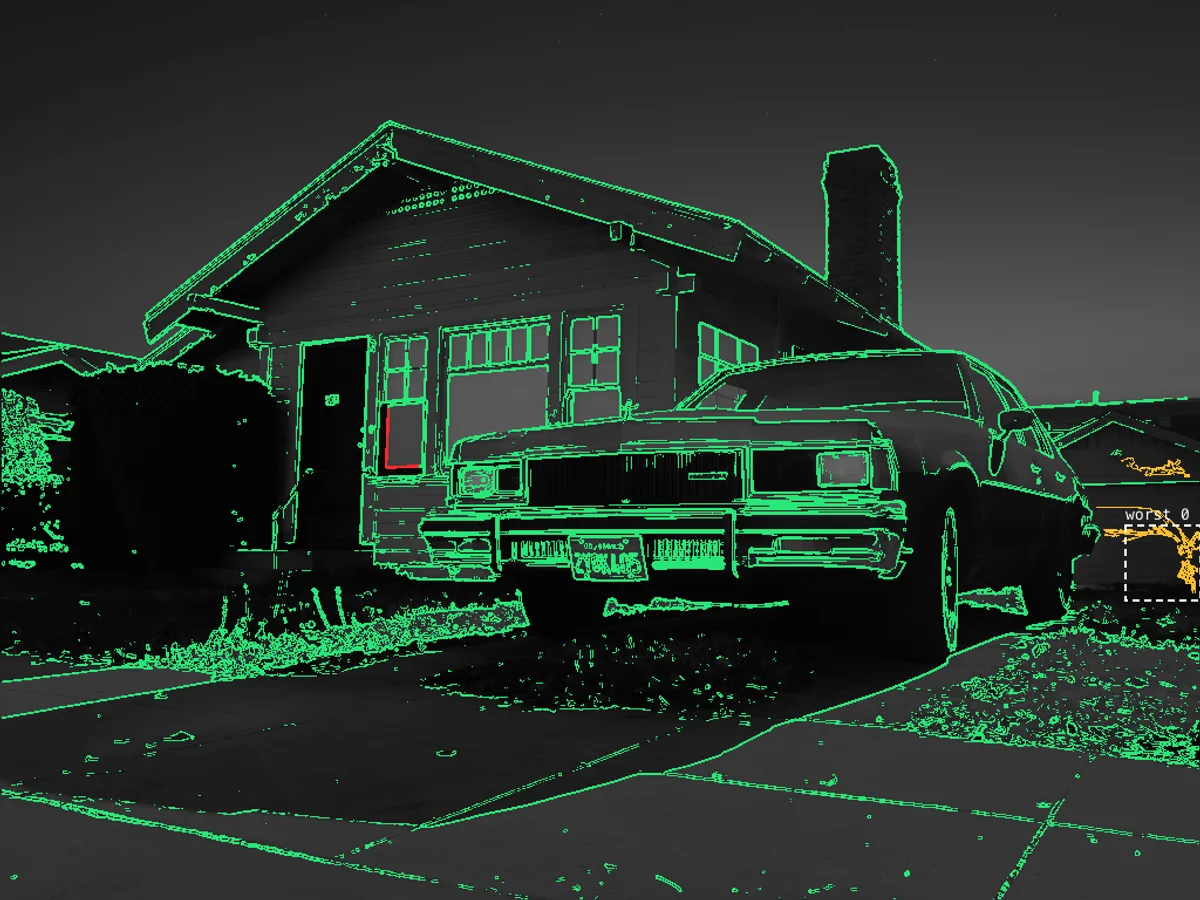
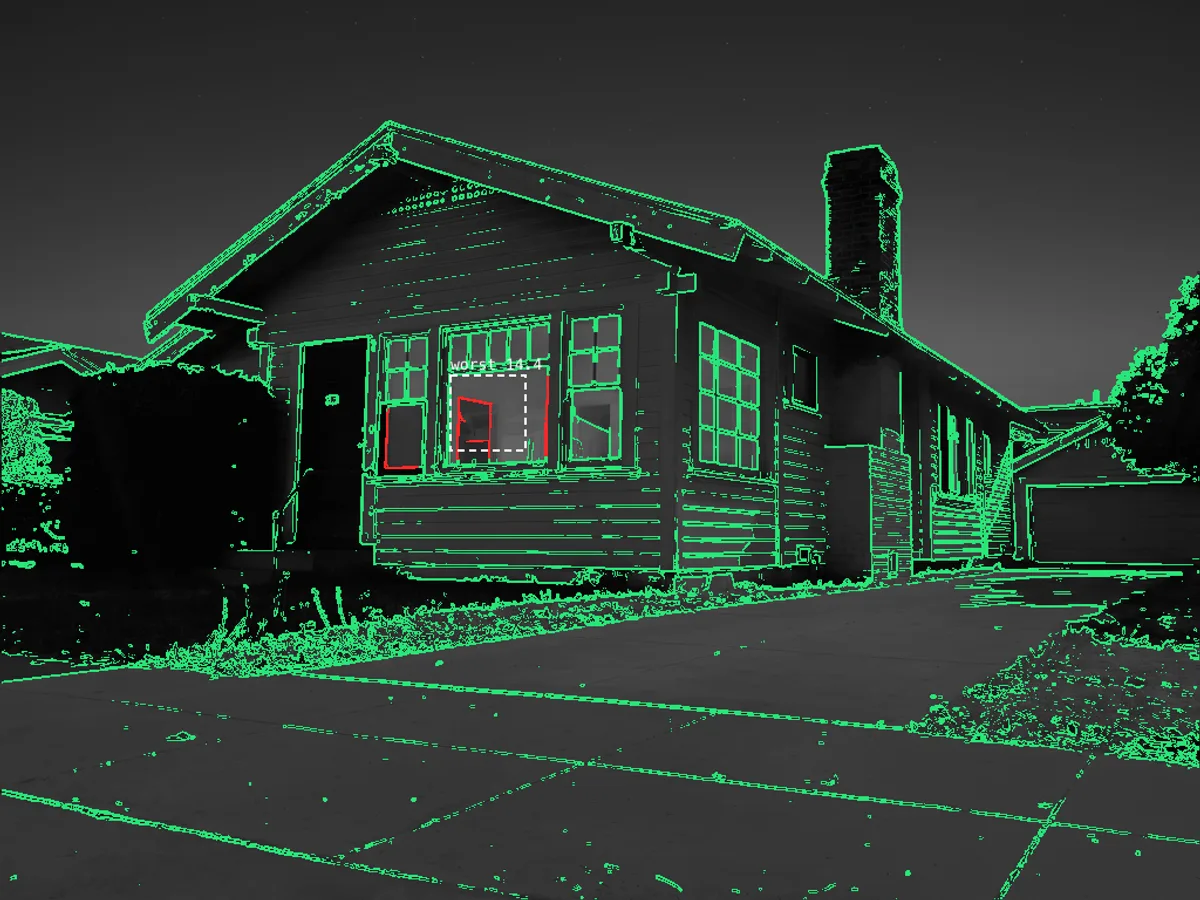
Show the vehicle-removal limit rather than hide it
Removing a car parked across the facade works — it comes out, the driveway
rebuilds, and the siding behind it is reconstructed. But whatever the car was
covering has to be invented, because no photograph of it exists. On this house the
model produced a wall, windows and a detached garage that were never visible.

The preservation check caught it: 91.7 global, 0 local, and the red region in the
overlay maps precisely onto where the car stood while the rest of the house stays
green. That is the system working, so the gallery shows the refusal rather than
only the successes, along with the practical fix — on an open driveway a car
removes cleanly, and when one covers the facade the salesperson moves it or steps
left and reshoots.

Also fixes how a cleaned house was scored. generateMaster verified the dusk pass
against whatever it was given, which after a cleanup pass is the cleaned image,
not the photograph the customer took. That reported 99.0 for a render carrying a
fabricated wall. Masters are now always scored against the true original, which
puts the same render at 91.7 and fails it.

Verified: build is fully static, two prerendered routes and no server functions;
the page returns 200 with FAL_KEY unset and the key appears nowhere in the HTML or
build output; all five calibration cases classify correctly; sheet sky and driveway
are byte-identical across tiles.

diff --git a/app/page.tsx b/app/page.tsx
@@ -61,13 +61,36 @@ export default function Gallery() {
       {alvarez && (
         <Section
           eyebrow="Difficult photograph"
-          title="Vehicle removed, façade rebuilt"
-          note="The car overlaps the house, so removing it means reconstructing the porch and wall behind it — not just patching driveway. Shot in flat overcast light, the kind of photo a salesperson actually takes."
+          title="Vehicle removal, and its limit"
+          note="The sedan was parked across the façade, not merely on the driveway. It comes out cleanly and the driveway rebuilds — but anything the car was covering has to be invented, because no photograph of it exists."
         >
           <BeforeAfter
             before={asset(alvarez.original)}
             after={asset(alvarez.variants[0]?.file ?? alvarez.master)}
           />
+
+          <div className="mt-3">
+            <PreservationBadge score={alvarez.preservation.score} passed={alvarez.preservation.passed} />
+          </div>
+
+          {/* eslint-disable-next-line @next/next/no-img-element */}
+          <img
+            src={asset(alvarez.overlay)}
+            alt="Overlay showing invented structure in red where the vehicle stood"
+            className="mt-3 w-full rounded-xl border border-[var(--line)]"
+          />
+
+          <p className="mt-3 text-[12px] leading-relaxed text-[var(--muted)]">
+            The check refused this render, and the red maps exactly onto where the car stood —
+            a wall, windows and a garage the model had to guess at. The rest of the house is
+            green and untouched. We would rather flag that than quietly send a homeowner a
+            picture of a house that is not theirs.
+          </p>
+          <p className="mt-2 text-[12px] leading-relaxed text-[var(--muted)]">
+            <b className="text-[var(--text)]">In practice:</b> a car on open driveway removes
+            perfectly. When one covers the façade, the fix is thirty seconds of the
+            salesperson&apos;s time — ask the homeowner to back it out, or step left and reshoot.
+          </p>
         </Section>
       )}
 

diff --git a/scripts/build-gallery.ts b/scripts/build-gallery.ts
@@ -122,11 +122,16 @@ async function masterFor(spec: HouseSpec, original: Buffer) {
 
   const outcome = await generateMaster(source, { quality: 'draft', preCleaned: spec.hasVehicle });
   await writeFile(cached, outcome.buffer);
-  await writeFile(path.join(CACHE, `${spec.slug}.${hash}.overlay.png`), outcome.report.overlay);
+
+  // Always score against the TRUE original, never the cleaned intermediate.
+  // Reconstructing the facade behind a removed vehicle is itself invention, and
+  // verifying the dusk pass against the cleaned image would hide exactly that.
+  const against = await verifyPreservation(original, outcome.buffer);
+  await writeFile(path.join(CACHE, `${spec.slug}.${hash}.overlay.png`), against.overlay);
   const report = {
-    score: outcome.report.score,
-    localScore: outcome.report.detail.localScore,
-    passed: outcome.report.passed,
+    score: against.score,
+    localScore: against.detail.localScore,
+    passed: against.passed,
     attempts: outcome.attempts,
   };
   await writeFile(meta, JSON.stringify(report, null, 2));
